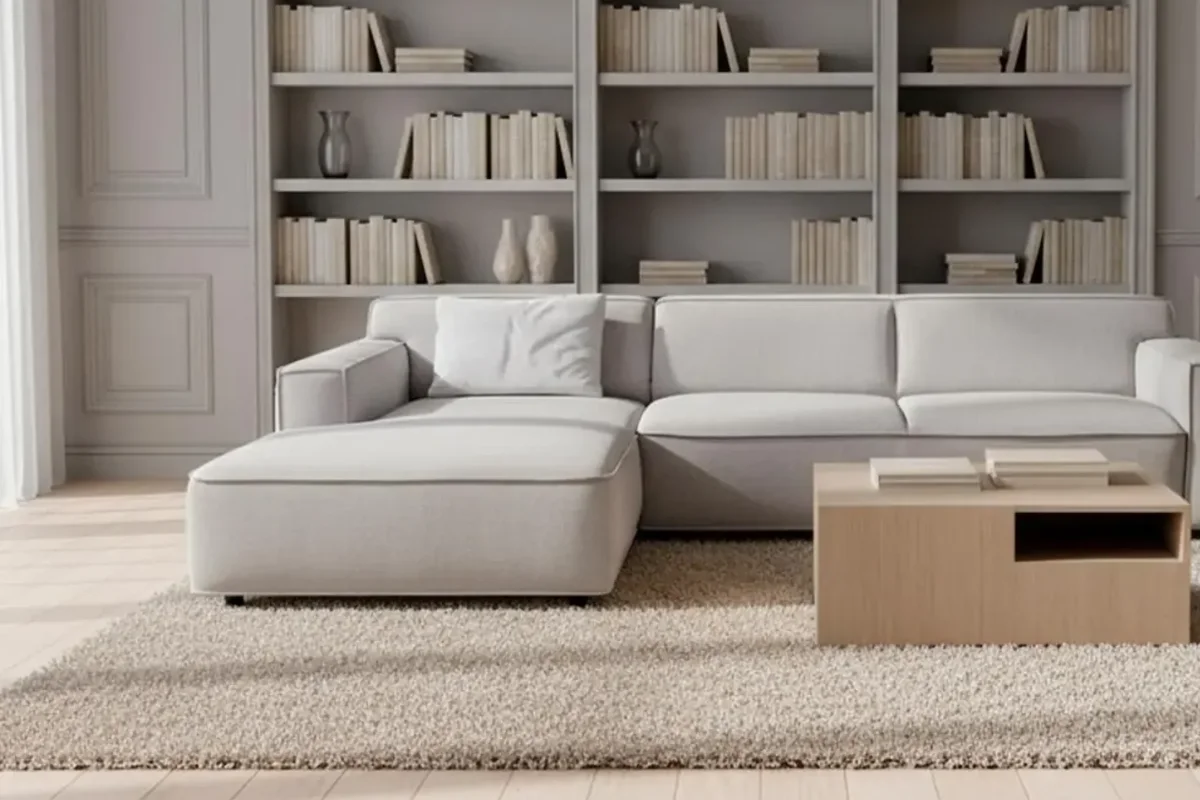
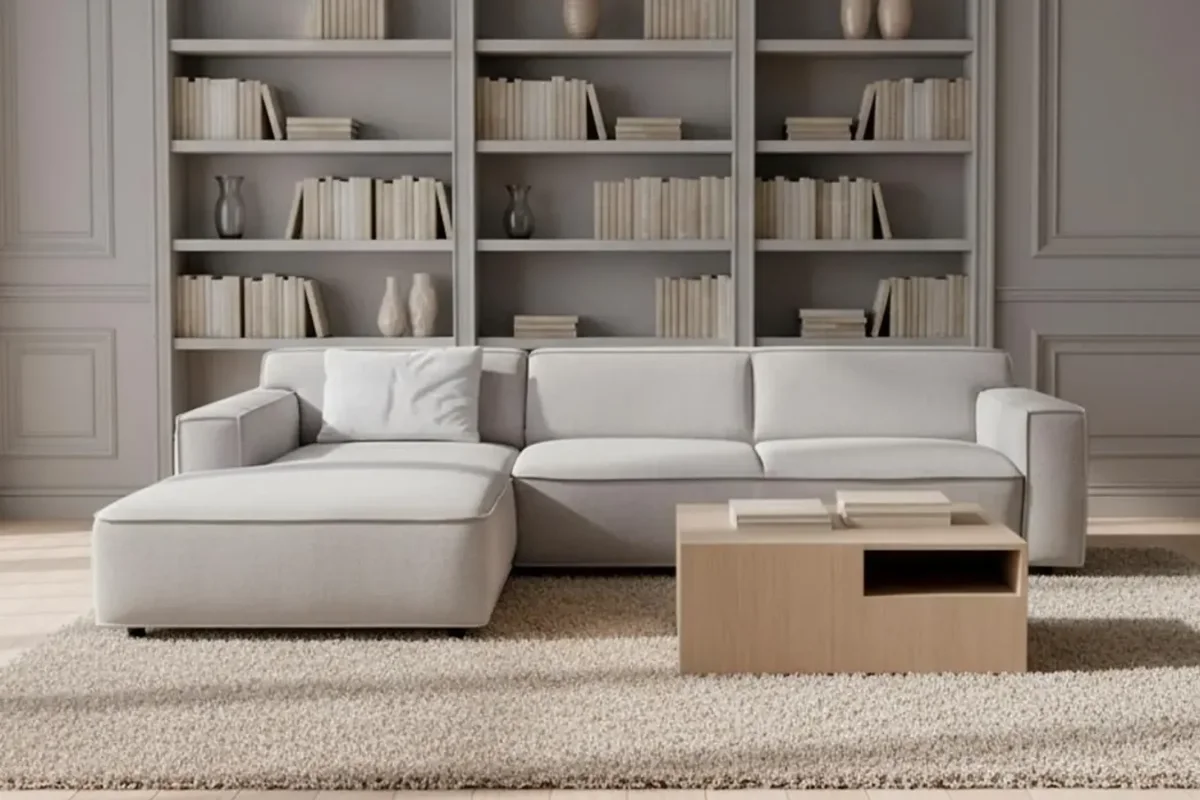
Vorschau aus 50d7114: Modelluebersicht: Pisa komplett im Bild (Ausschnitt breiter)

diff --git a/kollektion.html b/kollektion.html
@@ -115,7 +115,7 @@
   </a>
   <a class="model-card" href="modell-pisa.html" data-tags="Schaumaufbau">
     <div class="model-card__media model-card__media--cover">
-      <img src="assets/img/modelle/pisa-card-600.webp?v=f11207cb" srcset="assets/img/modelle/pisa-card-600.webp?v=f11207cb 600w, assets/img/modelle/pisa-card-1200.webp?v=65ca088f 1200w"
+      <img src="assets/img/modelle/pisa-card-600.webp?v=3907340c" srcset="assets/img/modelle/pisa-card-600.webp?v=3907340c 600w, assets/img/modelle/pisa-card-1200.webp?v=2407114a 1200w"
            sizes="(min-width: 1000px) 33vw, (min-width: 640px) 50vw, 100vw" alt="" loading="lazy" width="1200" height="800">
     </div>
     <div class="model-card__body">

diff --git a/modell-como.html b/modell-como.html
@@ -304,7 +304,7 @@
       <div class="model-grid">
   <a class="model-card" href="modell-pisa.html">
     <div class="model-card__media model-card__media--cover">
-      <img src="assets/img/modelle/pisa-card-600.webp?v=f11207cb" srcset="assets/img/modelle/pisa-card-600.webp?v=f11207cb 600w, assets/img/modelle/pisa-card-1200.webp?v=65ca088f 1200w"
+      <img src="assets/img/modelle/pisa-card-600.webp?v=3907340c" srcset="assets/img/modelle/pisa-card-600.webp?v=3907340c 600w, assets/img/modelle/pisa-card-1200.webp?v=2407114a 1200w"
            sizes="(min-width: 1000px) 33vw, (min-width: 640px) 50vw, 100vw" alt="" loading="lazy" width="1200" height="800">
     </div>
     <div class="model-card__body">

diff --git a/modell-bellagio.html b/modell-bellagio.html
@@ -324,7 +324,7 @@
   </a>
   <a class="model-card" href="modell-pisa.html">
     <div class="model-card__media model-card__media--cover">
-      <img src="assets/img/modelle/pisa-card-600.webp?v=f11207cb" srcset="assets/img/modelle/pisa-card-600.webp?v=f11207cb 600w, assets/img/modelle/pisa-card-1200.webp?v=65ca088f 1200w"
+      <img src="assets/img/modelle/pisa-card-600.webp?v=3907340c" srcset="assets/img/modelle/pisa-card-600.webp?v=3907340c 600w, assets/img/modelle/pisa-card-1200.webp?v=2407114a 1200w"
            sizes="(min-width: 1000px) 33vw, (min-width: 640px) 50vw, 100vw" alt="" loading="lazy" width="1200" height="800">
     </div>
     <div class="model-card__body">

diff --git a/modell-modular.html b/modell-modular.html
@@ -308,7 +308,7 @@
   </a>
   <a class="model-card" href="modell-pisa.html">
     <div class="model-card__media model-card__media--cover">
-      <img src="assets/img/modelle/pisa-card-600.webp?v=f11207cb" srcset="assets/img/modelle/pisa-card-600.webp?v=f11207cb 600w, assets/img/modelle/pisa-card-1200.webp?v=65ca088f 1200w"
+      <img src="assets/img/modelle/pisa-card-600.webp?v=3907340c" srcset="assets/img/modelle/pisa-card-600.webp?v=3907340c 600w, assets/img/modelle/pisa-card-1200.webp?v=2407114a 1200w"
            sizes="(min-width: 1000px) 33vw, (min-width: 640px) 50vw, 100vw" alt="" loading="lazy" width="1200" height="800">
     </div>
     <div class="model-card__body">
